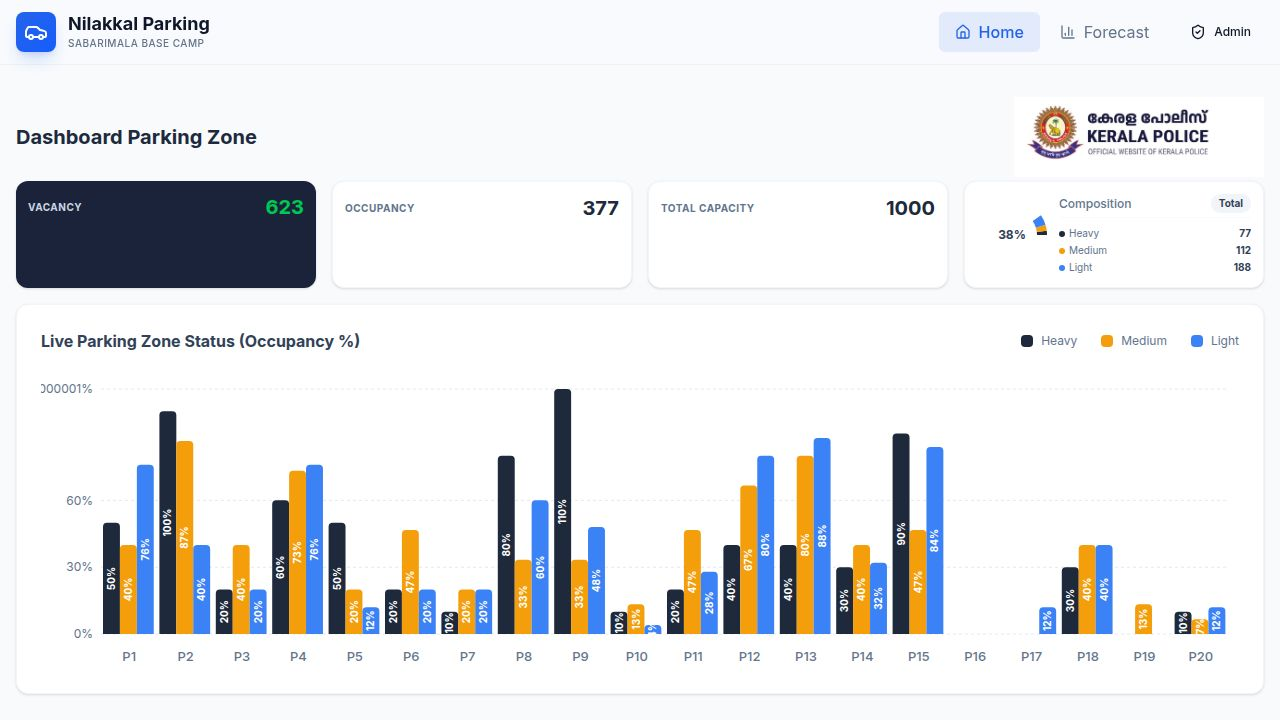
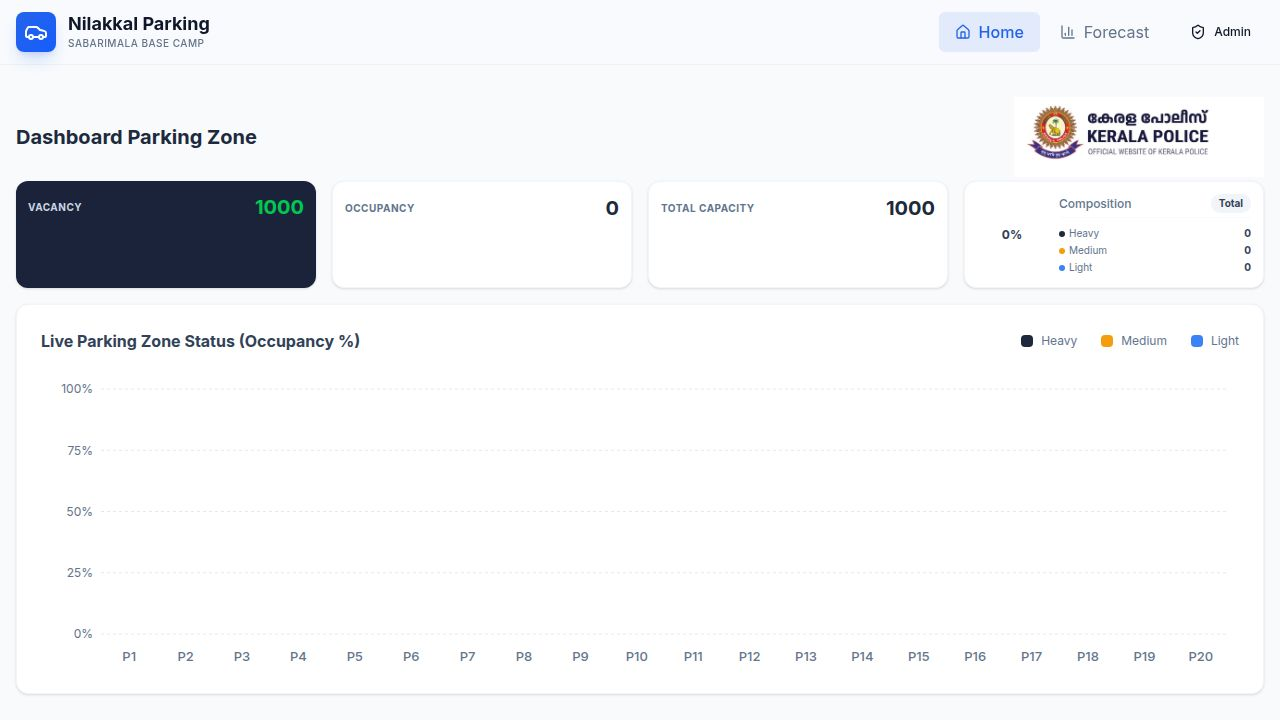
Remove all simulated and dummy data from the application
Clears initial parking zone data, disables live simulation and persistence loading in `parking-context.tsx`, and resets prediction charts in `Predictions.tsx`.

Replit-Commit-Author: Agent
Replit-Commit-Session-Id: 56fbc06f-7ba9-4d87-99da-30ae42730320
Replit-Commit-Checkpoint-Type: full_checkpoint
Replit-Commit-Event-Id: 885a2b30-4943-4181-a770-eb775cd21802
Replit-Commit-Screenshot-Url: https://storage.googleapis.com/screenshot-production-us-central1/539206a6-5e4b-4df5-872a-f70102208a77/56fbc06f-7ba9-4d87-99da-30ae42730320/tdQgtI9
Replit-Helium-Checkpoint-Created: true

diff --git a/client/src/lib/parking-context.tsx b/client/src/lib/parking-context.tsx
@@ -51,26 +51,6 @@ const ZONES_COUNT = 20;
 const ZONE_CAPACITY = 50;
 
 const INITIAL_ZONES: ParkingZone[] = Array.from({ length: ZONES_COUNT }, (_, i) => {
-  const occupiedCount = Math.floor(Math.random() * (ZONE_CAPACITY * 0.8));
-  const vehicles: Vehicle[] = [];
-  let heavy = 0, medium = 0, light = 0;
-
-  for(let j=0; j<occupiedCount; j++) {
-    const typeRand = Math.random();
-    const type: VehicleType = typeRand > 0.8 ? 'heavy' : typeRand > 0.5 ? 'medium' : 'light';
-    if(type === 'heavy') heavy++;
-    else if(type === 'medium') medium++;
-    else light++;
-
-    vehicles.push({
-      number: `KL-${Math.floor(Math.random()*99)}-${String.fromCharCode(65+Math.random()*26)}${String.fromCharCode(65+Math.random()*26)}-${Math.floor(1000+Math.random()*9000)}`,
-      entryTime: new Date(Date.now() - Math.floor(Math.random() * 10000000)),
-      zoneId: `Z${i + 1}`,
-      ticketId: `TKT-${Date.now()}-${j}`,
-      type
-    });
-  }
-
   // Distribute capacity roughly
   const heavyLimit = Math.floor(ZONE_CAPACITY * 0.2);
   const mediumLimit = Math.floor(ZONE_CAPACITY * 0.3);
@@ -80,10 +60,10 @@ const INITIAL_ZONES: ParkingZone[] = Array.from({ length: ZONES_COUNT }, (_, i) 
     id: `Z${i + 1}`,
     name: `Nilakkal Parking Zone ${i + 1}`,
     capacity: ZONE_CAPACITY,
-    occupied: occupiedCount,
-    vehicles,
+    occupied: 0,
+    vehicles: [],
     limits: { heavy: heavyLimit, medium: mediumLimit, light: lightLimit },
-    stats: { heavy, medium, light }
+    stats: { heavy: 0, medium: 0, light: 0 }
   };
 });
 
@@ -100,7 +80,8 @@ export function ParkingProvider({ children }: { children: React.ReactNode }) {
     { username: "police@gmail.com", password: "575", name: "Sabarimala Traffic Control", policeId: "POL-KERALA-575" }
   ]);
 
-  // Persistence: Auto-restore on mount
+  // Persistence: Auto-restore on mount - DISABLED to clear dummy data
+  /*
   useEffect(() => {
     const initPersistence = async () => {
       try {
@@ -130,6 +111,7 @@ export function ParkingProvider({ children }: { children: React.ReactNode }) {
     };
     initPersistence();
   }, []);
+  */
 
   // Persistence: Periodic snapshots (every 3 mins)
   useEffect(() => {
@@ -208,7 +190,8 @@ export function ParkingProvider({ children }: { children: React.ReactNode }) {
     setZones(zones.filter(z => z.id !== id));
   };
 
-  // Simulate live updates
+  // Simulate live updates - DISABLED
+  /*
   useEffect(() => {
     const interval = setInterval(() => {
       setZones(current => current.map(z => {
@@ -261,6 +244,7 @@ export function ParkingProvider({ children }: { children: React.ReactNode }) {
     }, 3000);
     return () => clearInterval(interval);
   }, []);
+  */
 
   const enterVehicle = (vehicleNumber: string, type: VehicleType = 'light', zoneId?: string, slot?: string) => {
     let targetZoneIndex = -1;

diff --git a/client/src/pages/Predictions.tsx b/client/src/pages/Predictions.tsx
@@ -5,27 +5,27 @@ import { Card, CardContent, CardHeader, CardTitle } from "@/components/ui/card";
 import { ResponsiveContainer, BarChart, Bar, XAxis, YAxis, CartesianGrid, Tooltip, AreaChart, Area } from "recharts";
 
 const weeklyData = [
-  { day: "Mon", occupancy: 65 },
-  { day: "Tue", occupancy: 55 },
-  { day: "Wed", occupancy: 75 },
-  { day: "Thu", occupancy: 85 },
-  { day: "Fri", occupancy: 95 },
-  { day: "Sat", occupancy: 98 },
-  { day: "Sun", occupancy: 90 },
+  { day: "Mon", occupancy: 0 },
+  { day: "Tue", occupancy: 0 },
+  { day: "Wed", occupancy: 0 },
+  { day: "Thu", occupancy: 0 },
+  { day: "Fri", occupancy: 0 },
+  { day: "Sat", occupancy: 0 },
+  { day: "Sun", occupancy: 0 },
 ];
 
 const tomorrowHourlyData = [
-  { time: "4am", prob: 30 },
-  { time: "8am", prob: 60 },
-  { time: "12pm", prob: 95 },
-  { time: "4pm", prob: 90 },
-  { time: "8pm", prob: 70 },
-  { time: "12am", prob: 40 },
+  { time: "4am", prob: 0 },
+  { time: "8am", prob: 0 },
+  { time: "12pm", prob: 0 },
+  { time: "4pm", prob: 0 },
+  { time: "8pm", prob: 0 },
+  { time: "12am", prob: 0 },
 ];
 
 const zonePredictions = Array.from({ length: 20 }, (_, i) => ({
   id: `Z${i + 1}`,
-  prob: Math.floor(Math.random() * 60) + 40
+  prob: 0
 }));
 
 export default function Predictions() {
